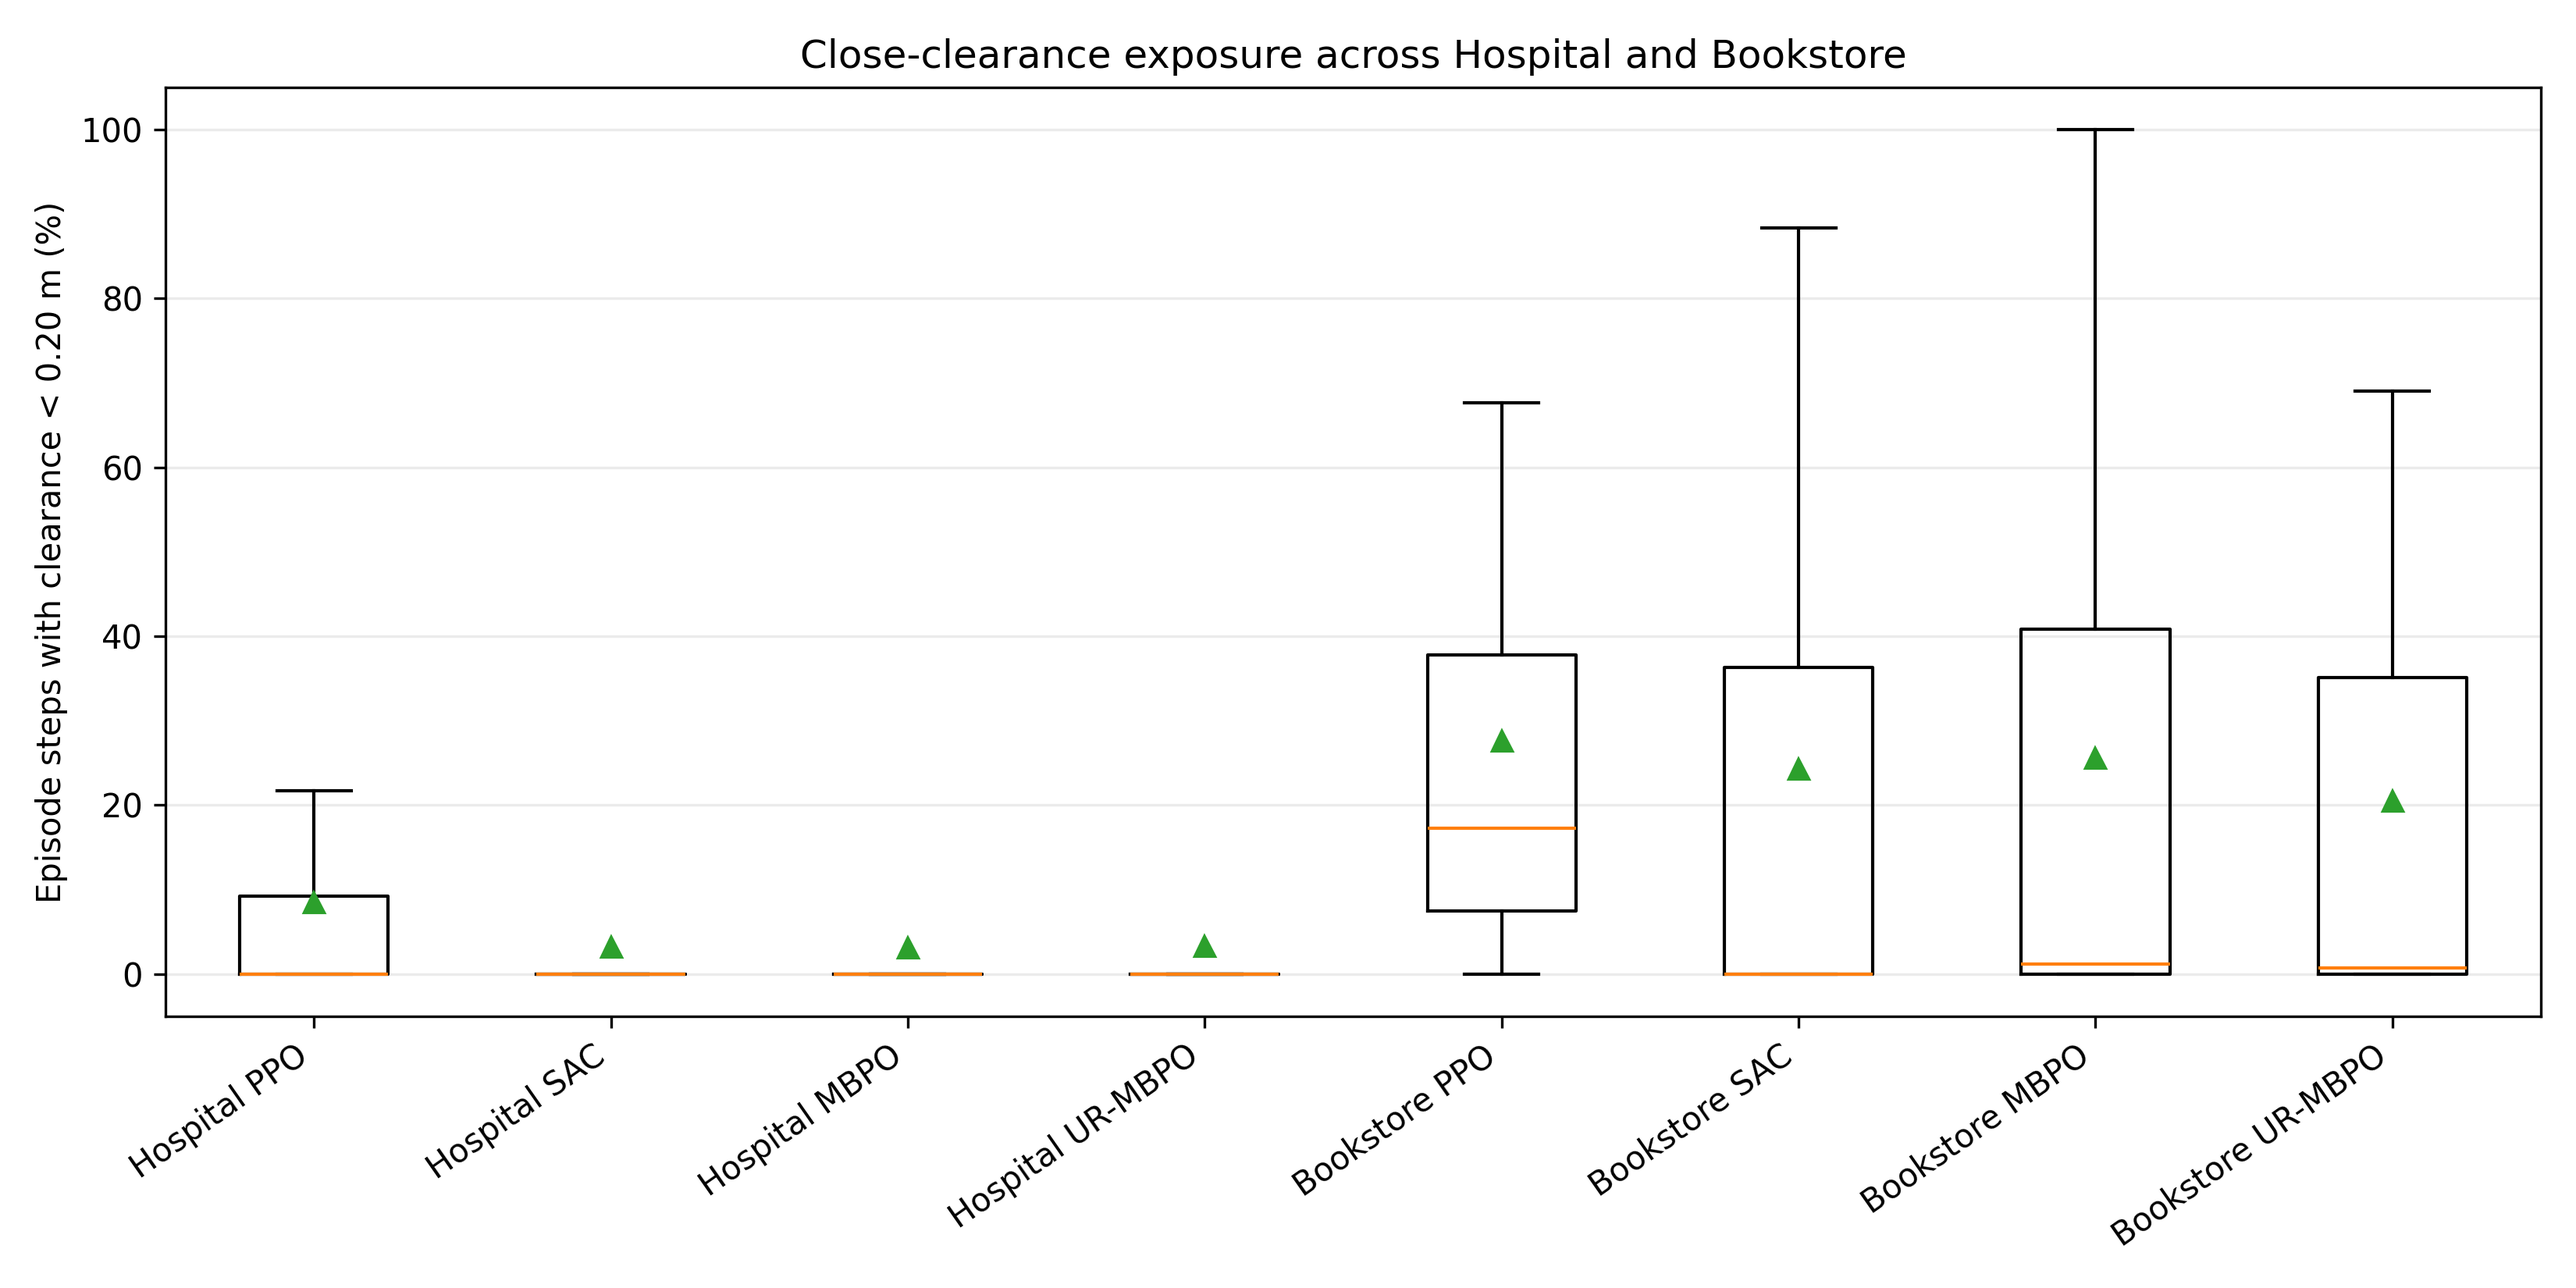
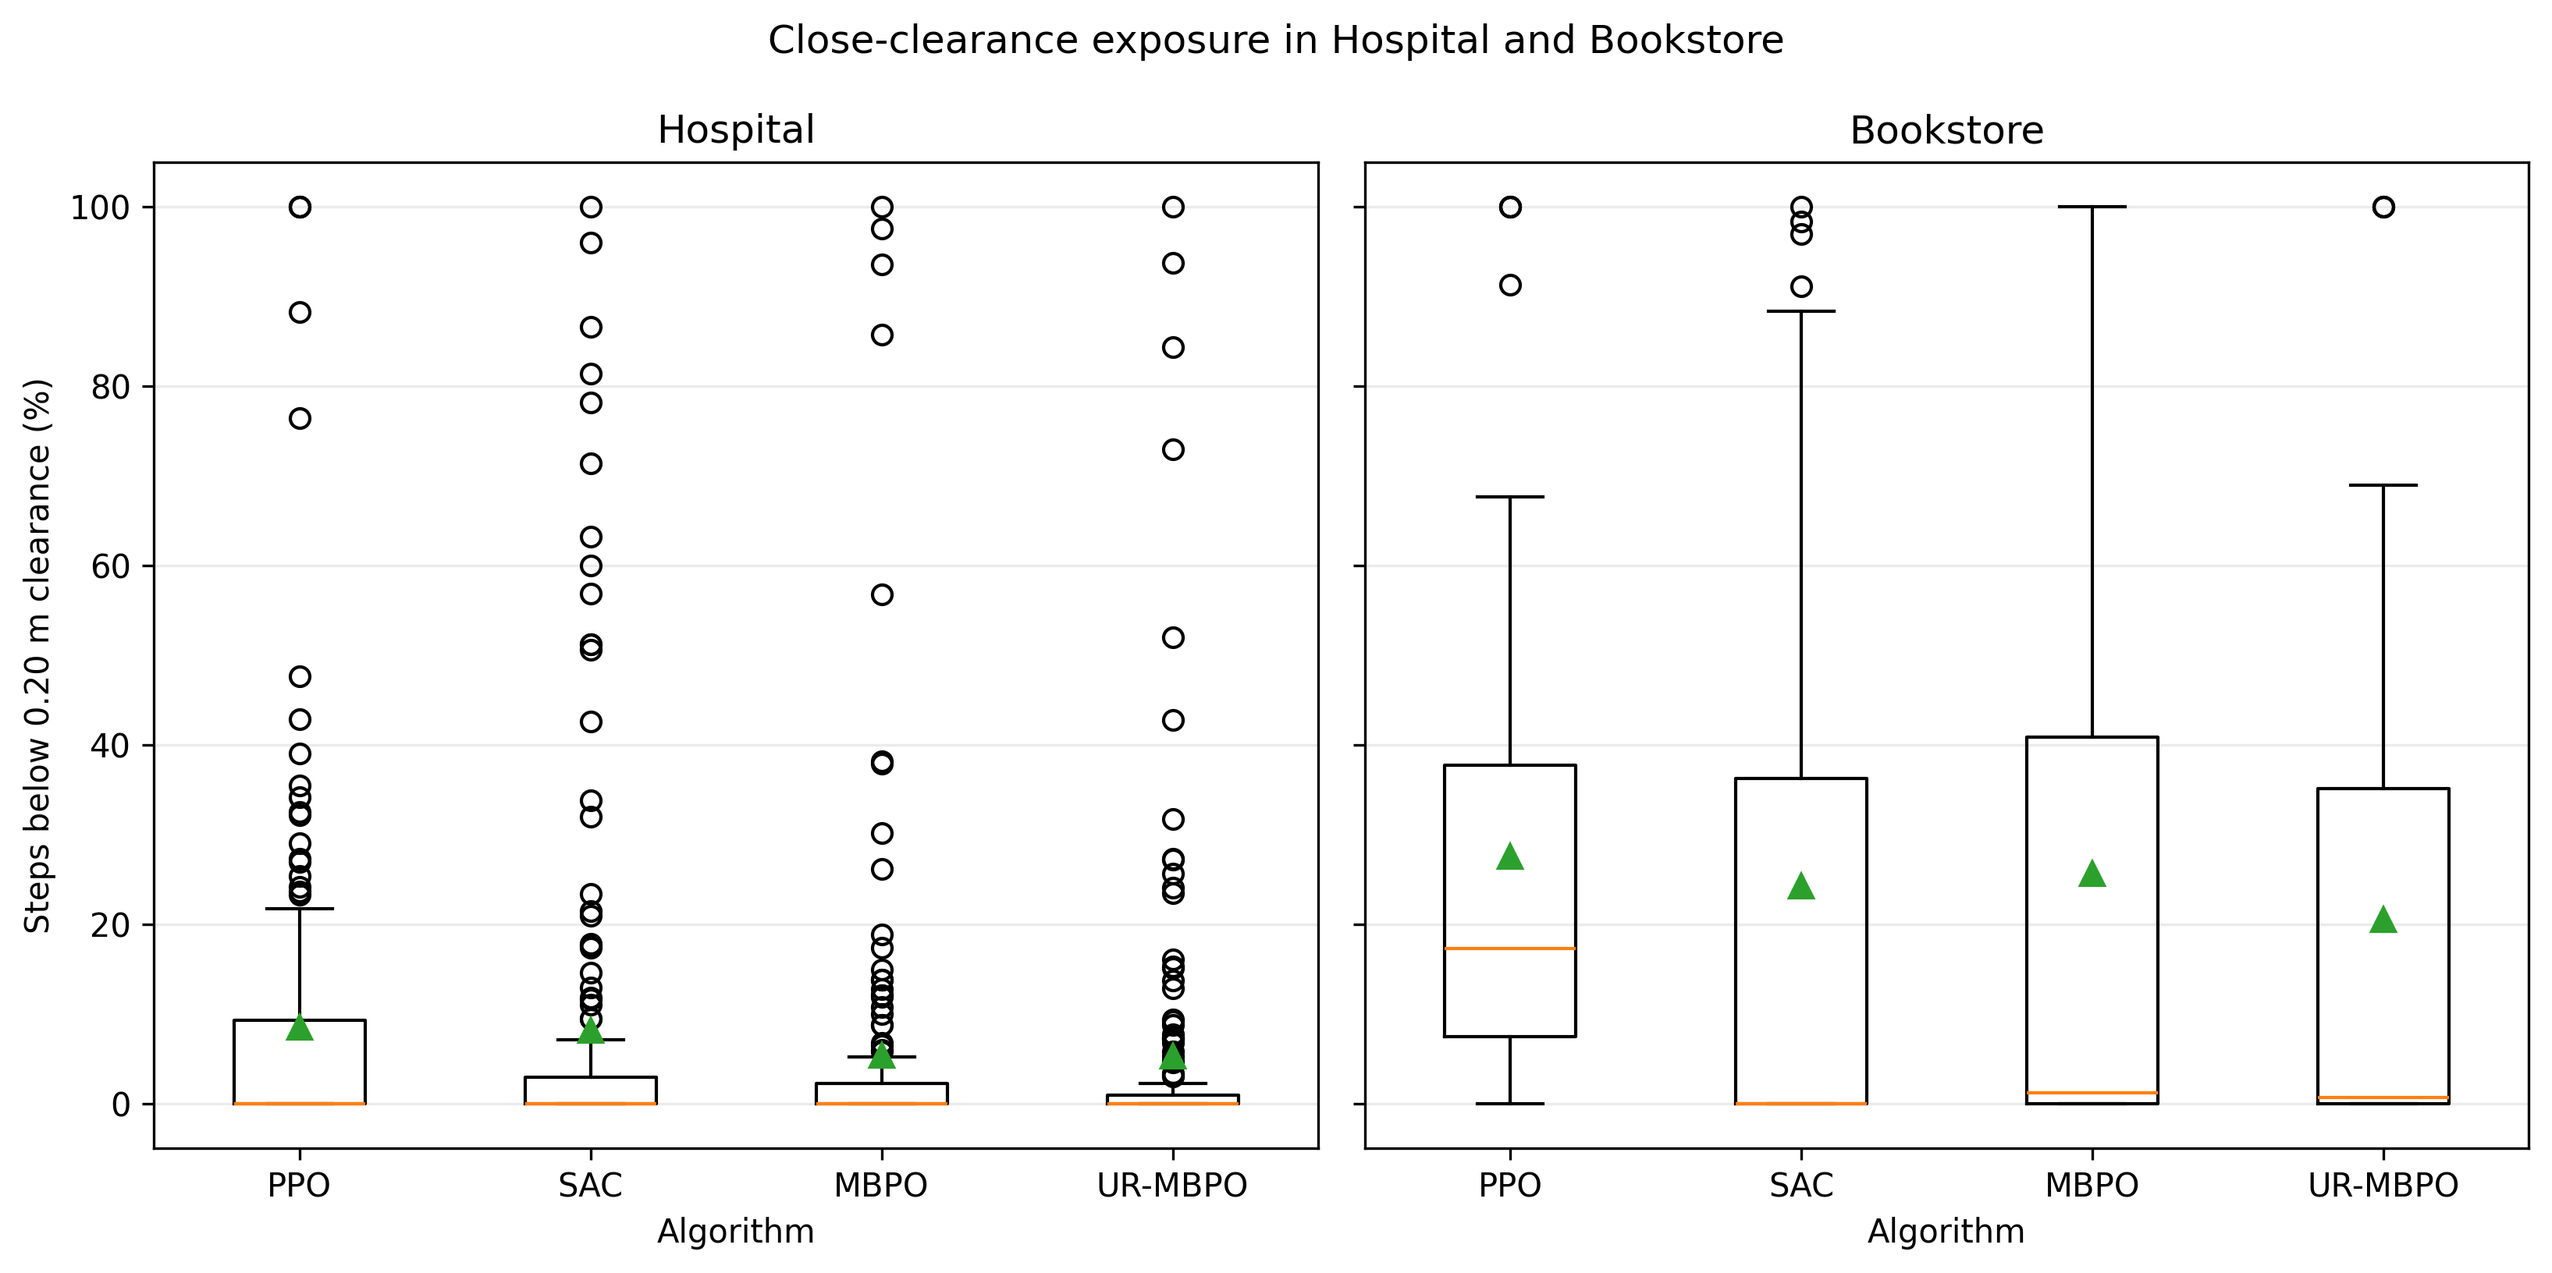
Update derived statistics and clearance figure

diff --git a/README.md b/README.md
@@ -110,15 +110,15 @@ The final static benchmark uses 50 fixed Hospital evaluation tasks, 50,000 train
 | Algorithm | Success | Collision | Mean return |
 |---|---:|---:|---:|
 | PPO | 76.0% | 22.7% | +50.26 |
-| SAC | 92.0% | 2.0% | +60.94 |
-| MBPO | 85.3% | 3.3% | +58.17 |
-| UR-MBPO | 91.3% | 6.7% | +59.14 |
+| SAC | 41.3% | 9.3% | +27.42 |
+| MBPO | 65.3% | 6.0% | +50.60 |
+| UR-MBPO | 64.0% | 7.3% | +48.37 |
 
-SAC produced the strongest overall result on the final matched static benchmark.
+PPO achieved the highest success rate on the corrected final matched static benchmark, but also had the highest collision rate.
 
-MBPO achieved strong performance but showed greater seed sensitivity.
+MBPO and UR-MBPO achieved similar success, substantially fewer collisions than PPO, and more timeout-dominated failures.
 
-UR-MBPO achieved success comparable to SAC but did not reduce collision rate below SAC in this benchmark.
+SAC underperformed the other three methods on success and showed the highest timeout rate.
 
 ## Dynamic-navigation evaluation
 
